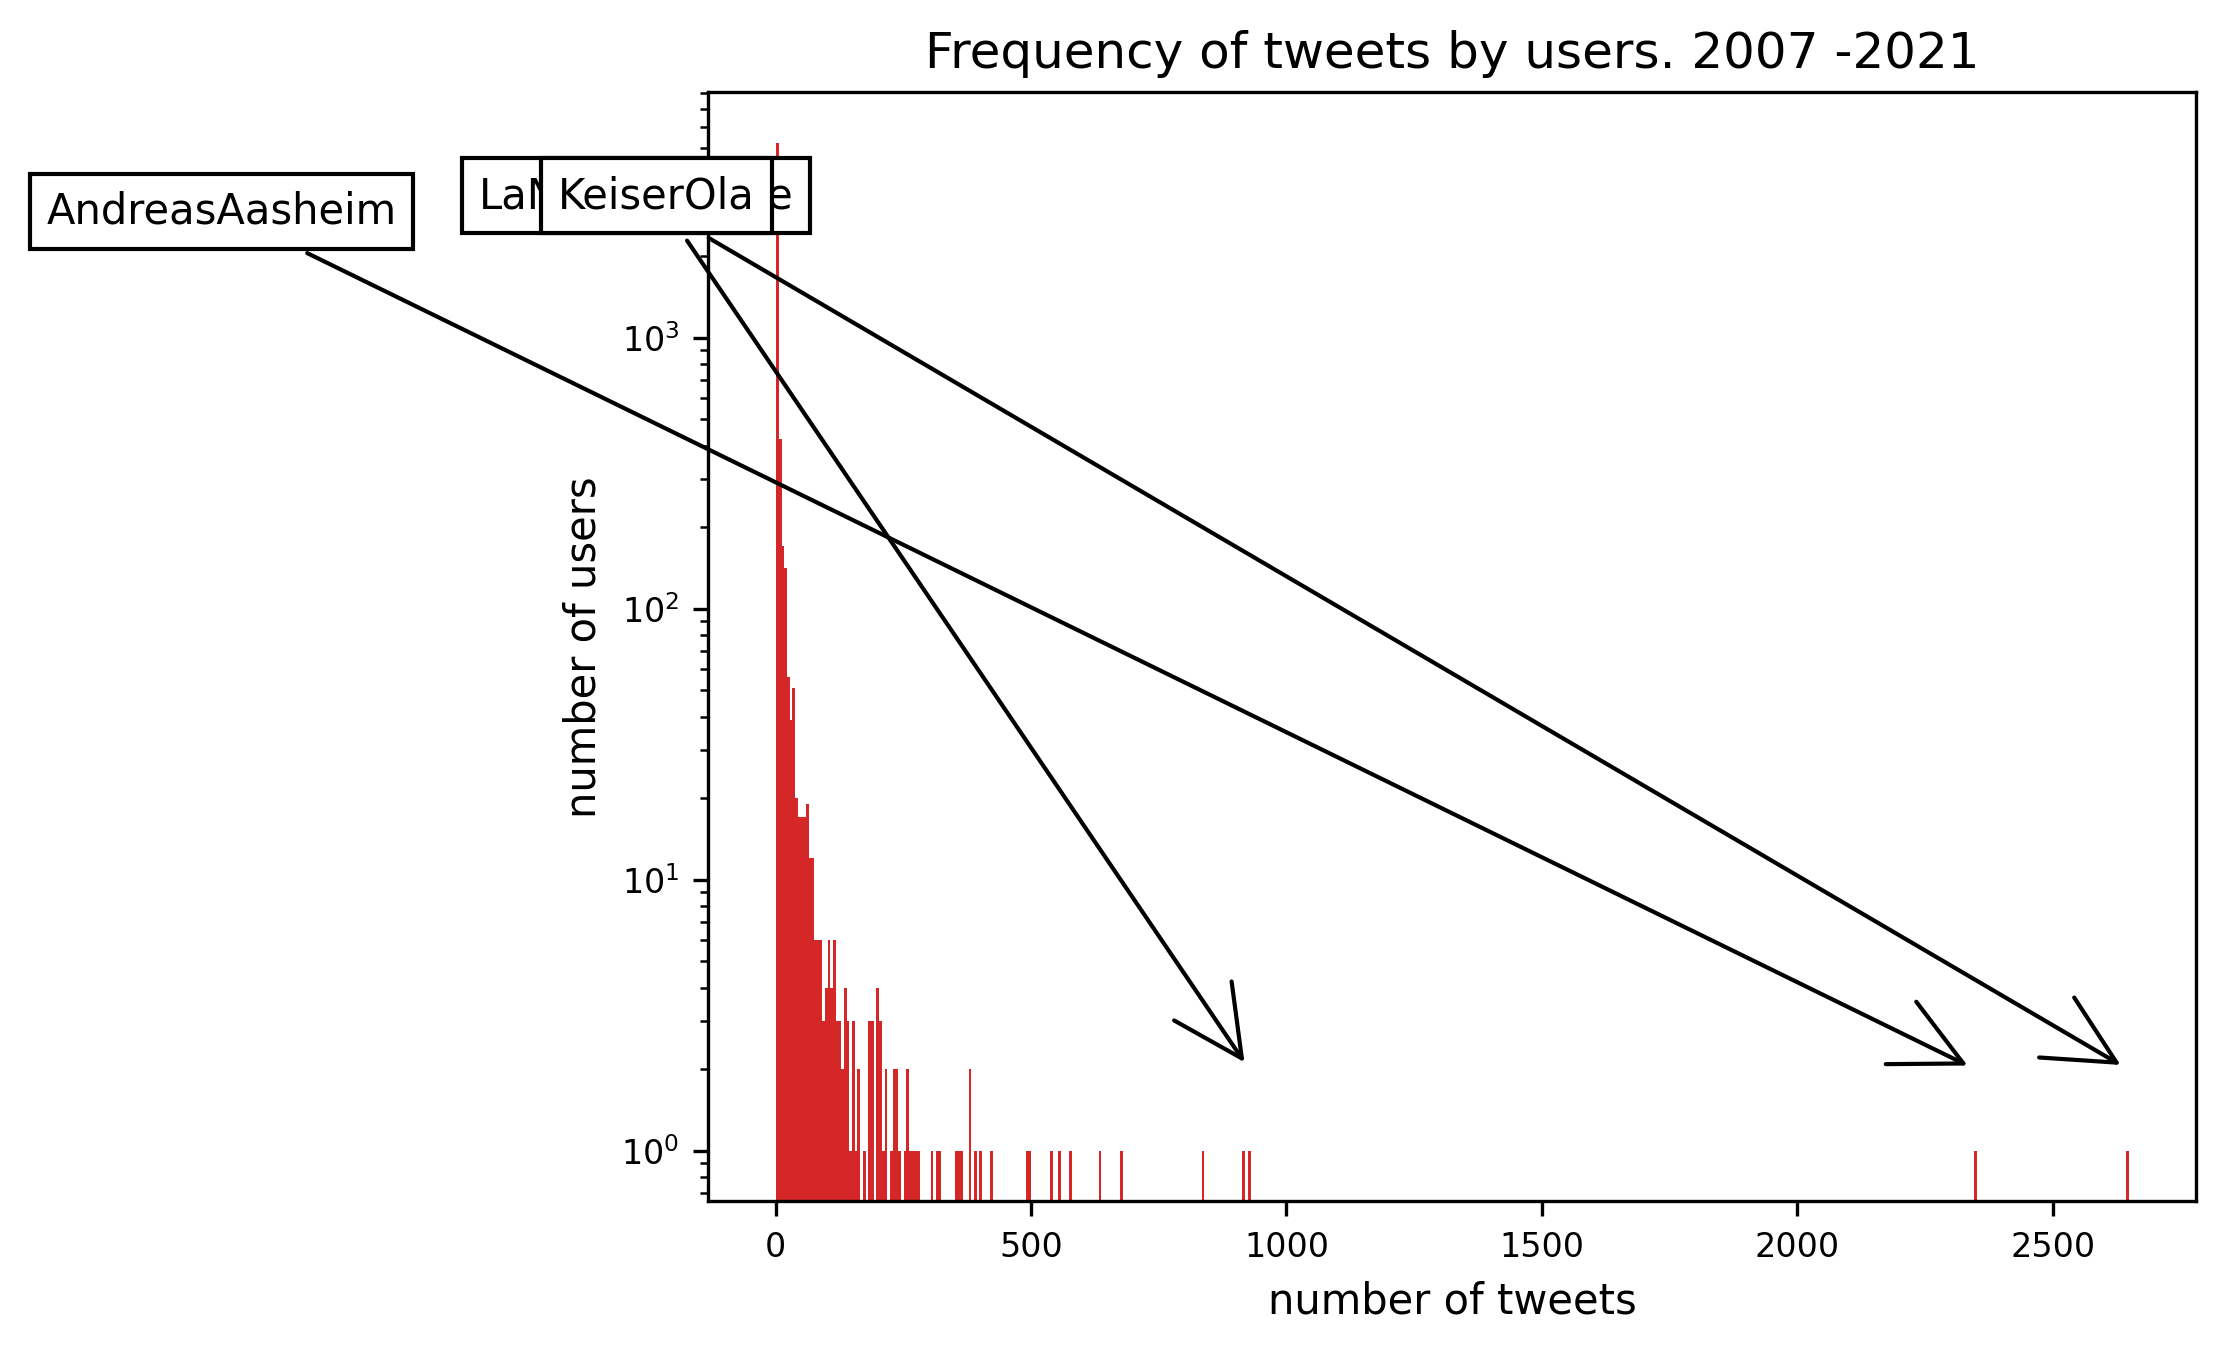
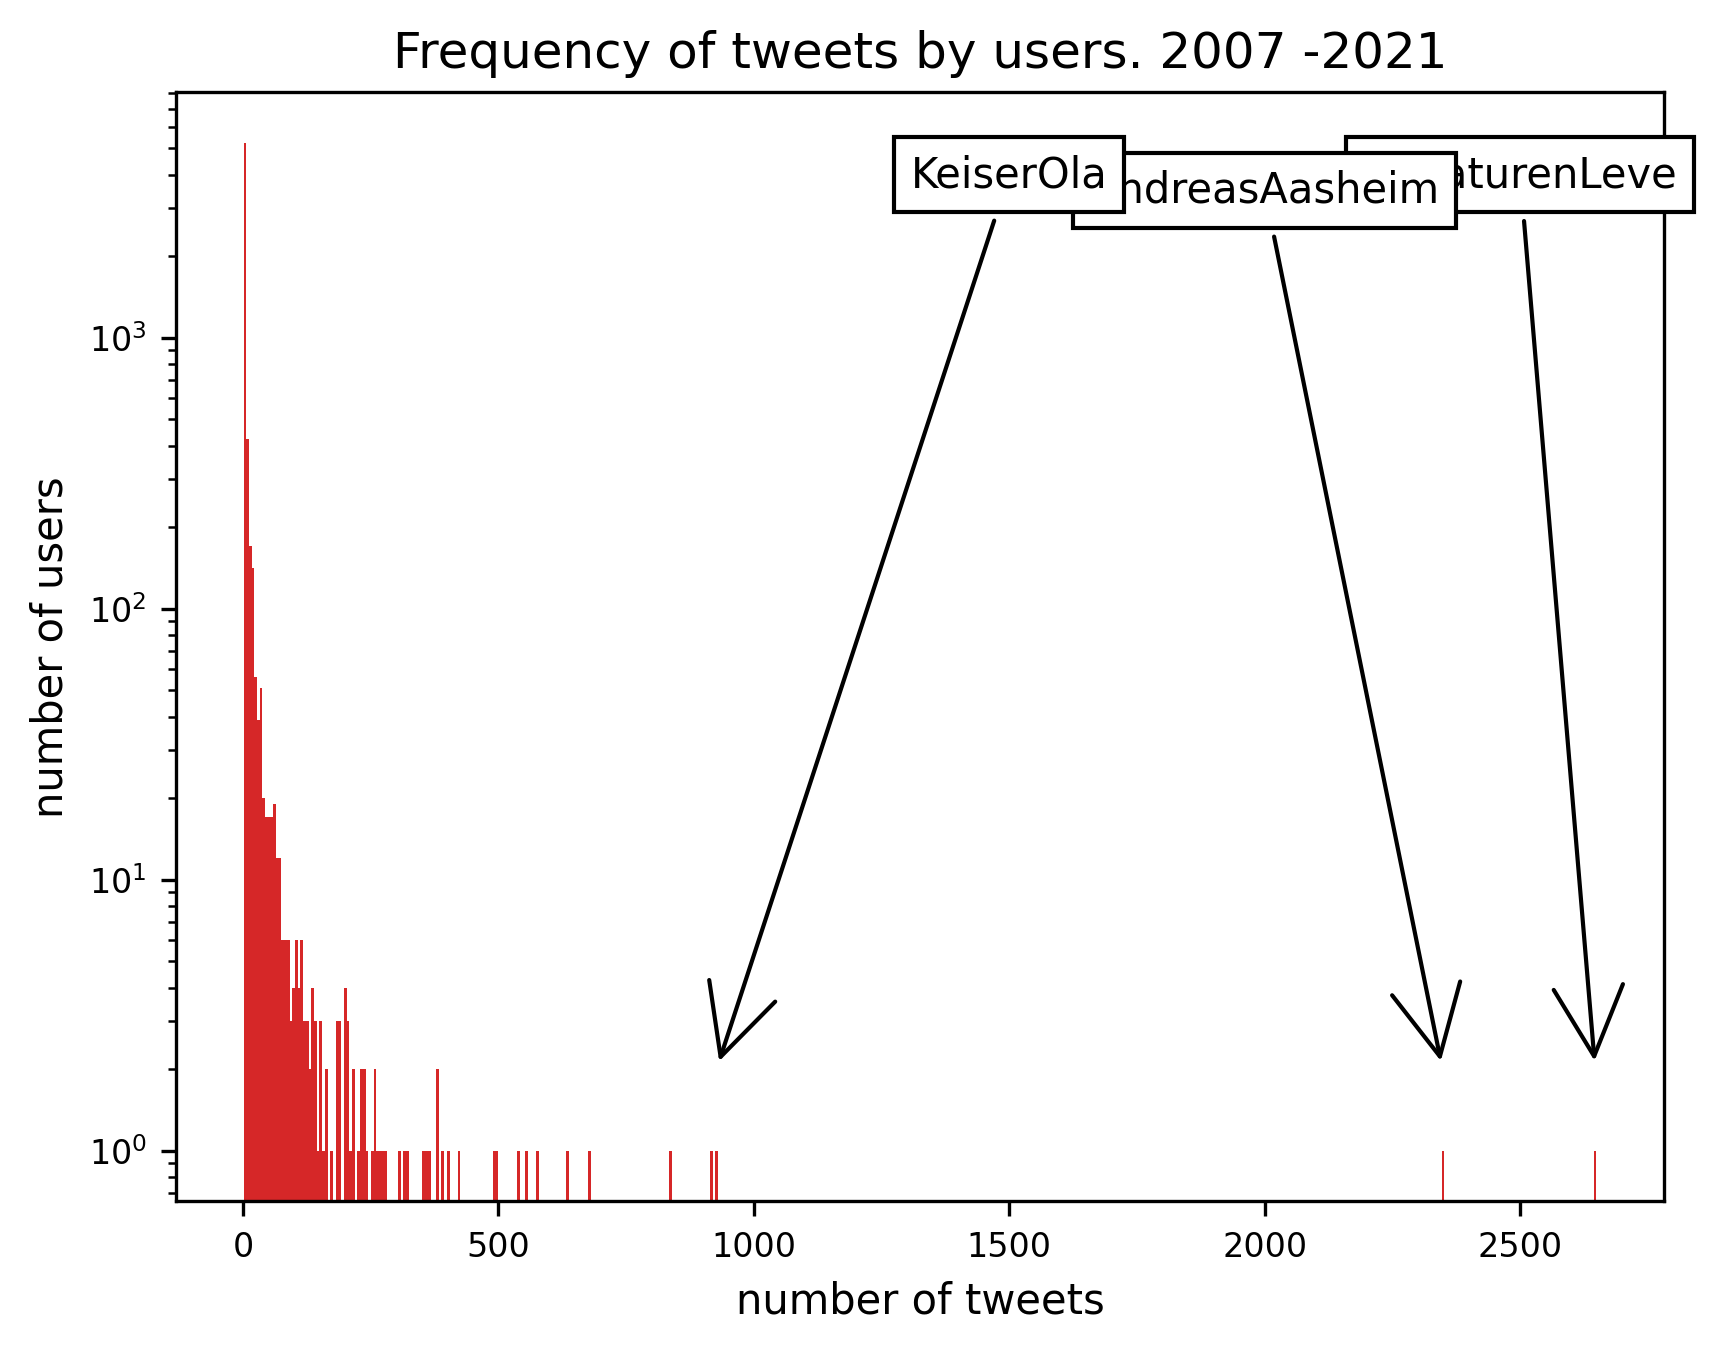
plot update

diff --git a/data/anon_identifier.py b/data/anon_identifier.py
@@ -76,7 +76,7 @@ def anonymizer():
     offsetbox1 = TextArea(p1)
     ab1 = AnnotationBbox(offsetbox1, xy1,
                         xybox = (2500, 4000),
-                        box_alignment = (5, 1),
+                        #box_alignment = (5, 1),
                         arrowprops = dict(arrowstyle='->'))
                 
     
@@ -87,7 +87,7 @@ def anonymizer():
     offsetbox2 = TextArea(p2)
     ab2 = AnnotationBbox(offsetbox2, xy2,
                         xybox = (2000, 3500),
-                        box_alignment = (5, 1),
+                        #box_alignment = (5, 1),
                         arrowprops = dict(arrowstyle='->'))
 
     p3, t3 = (list(sorted_tweet_occurances)[-3], tweet_occurances[list(sorted_tweet_occurances)[-3]])
@@ -97,7 +97,7 @@ def anonymizer():
     offsetbox3 = TextArea(p3)
     ab3 = AnnotationBbox(offsetbox3, xy3,
                         xybox = (1500, 4000),
-                        box_alignment = (5, 1),
+                        #box_alignment = (5, 1),
                         arrowprops = dict(arrowstyle='->'))
 
     print(tweet_occurances.values())
